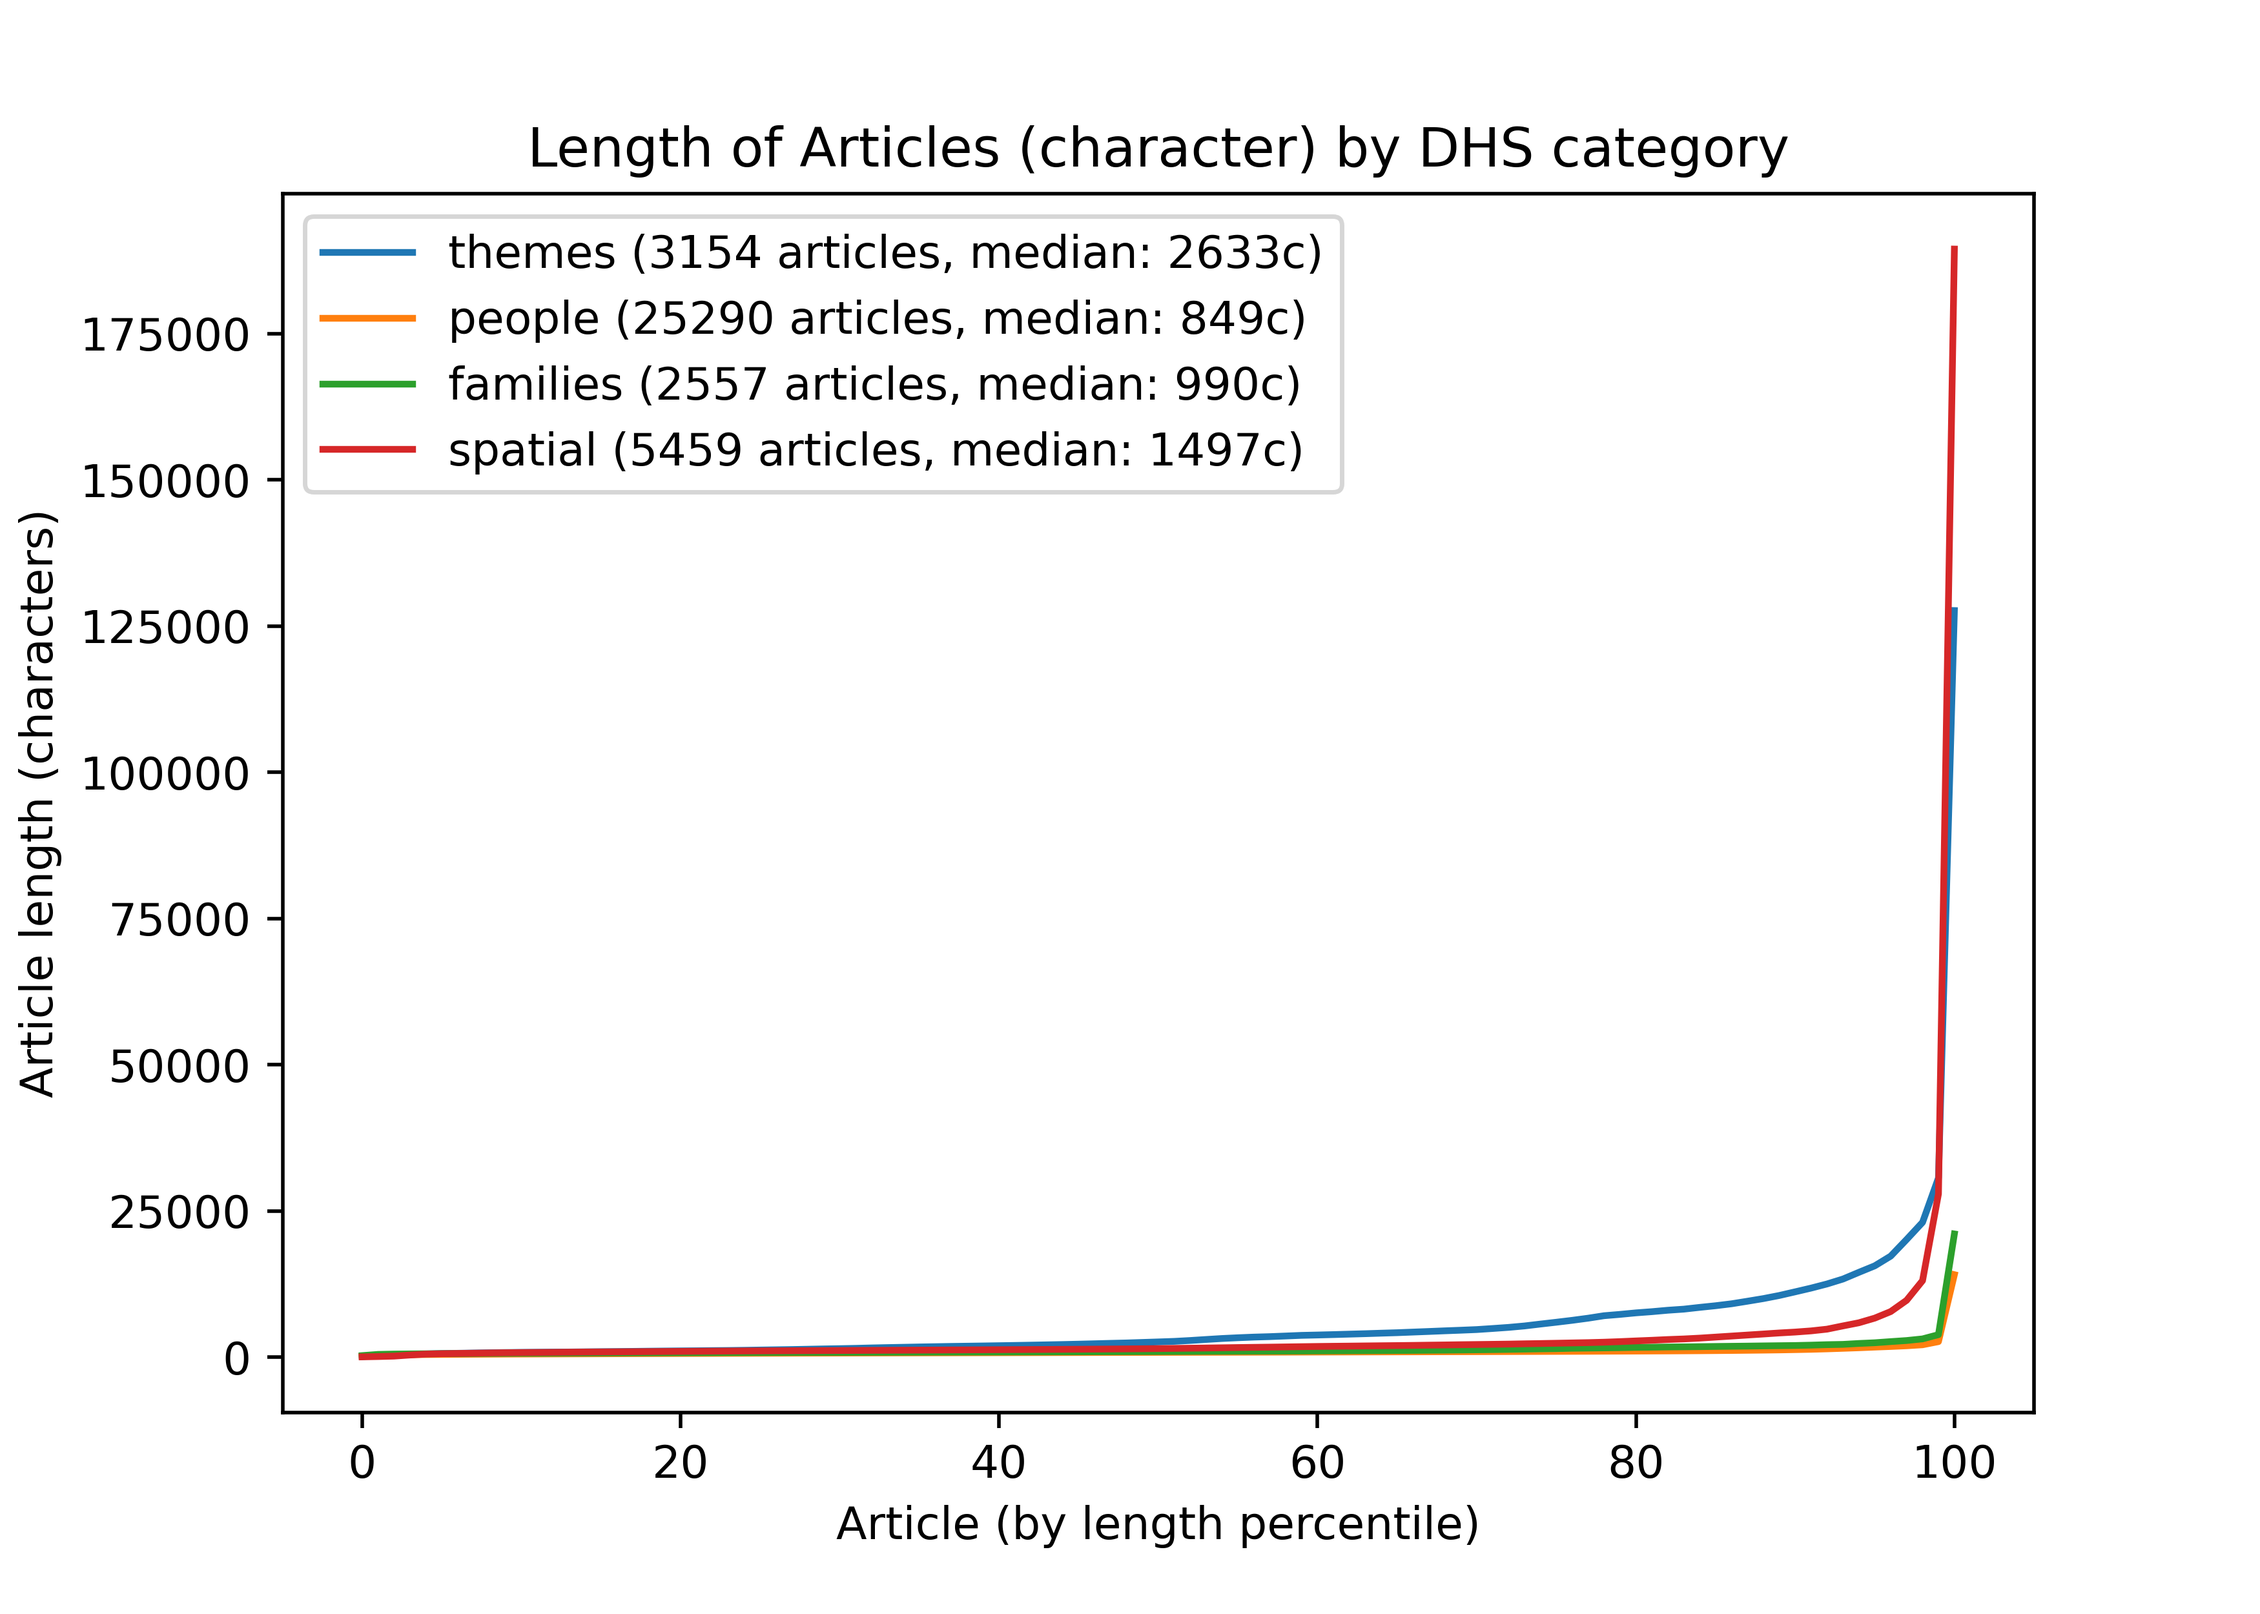
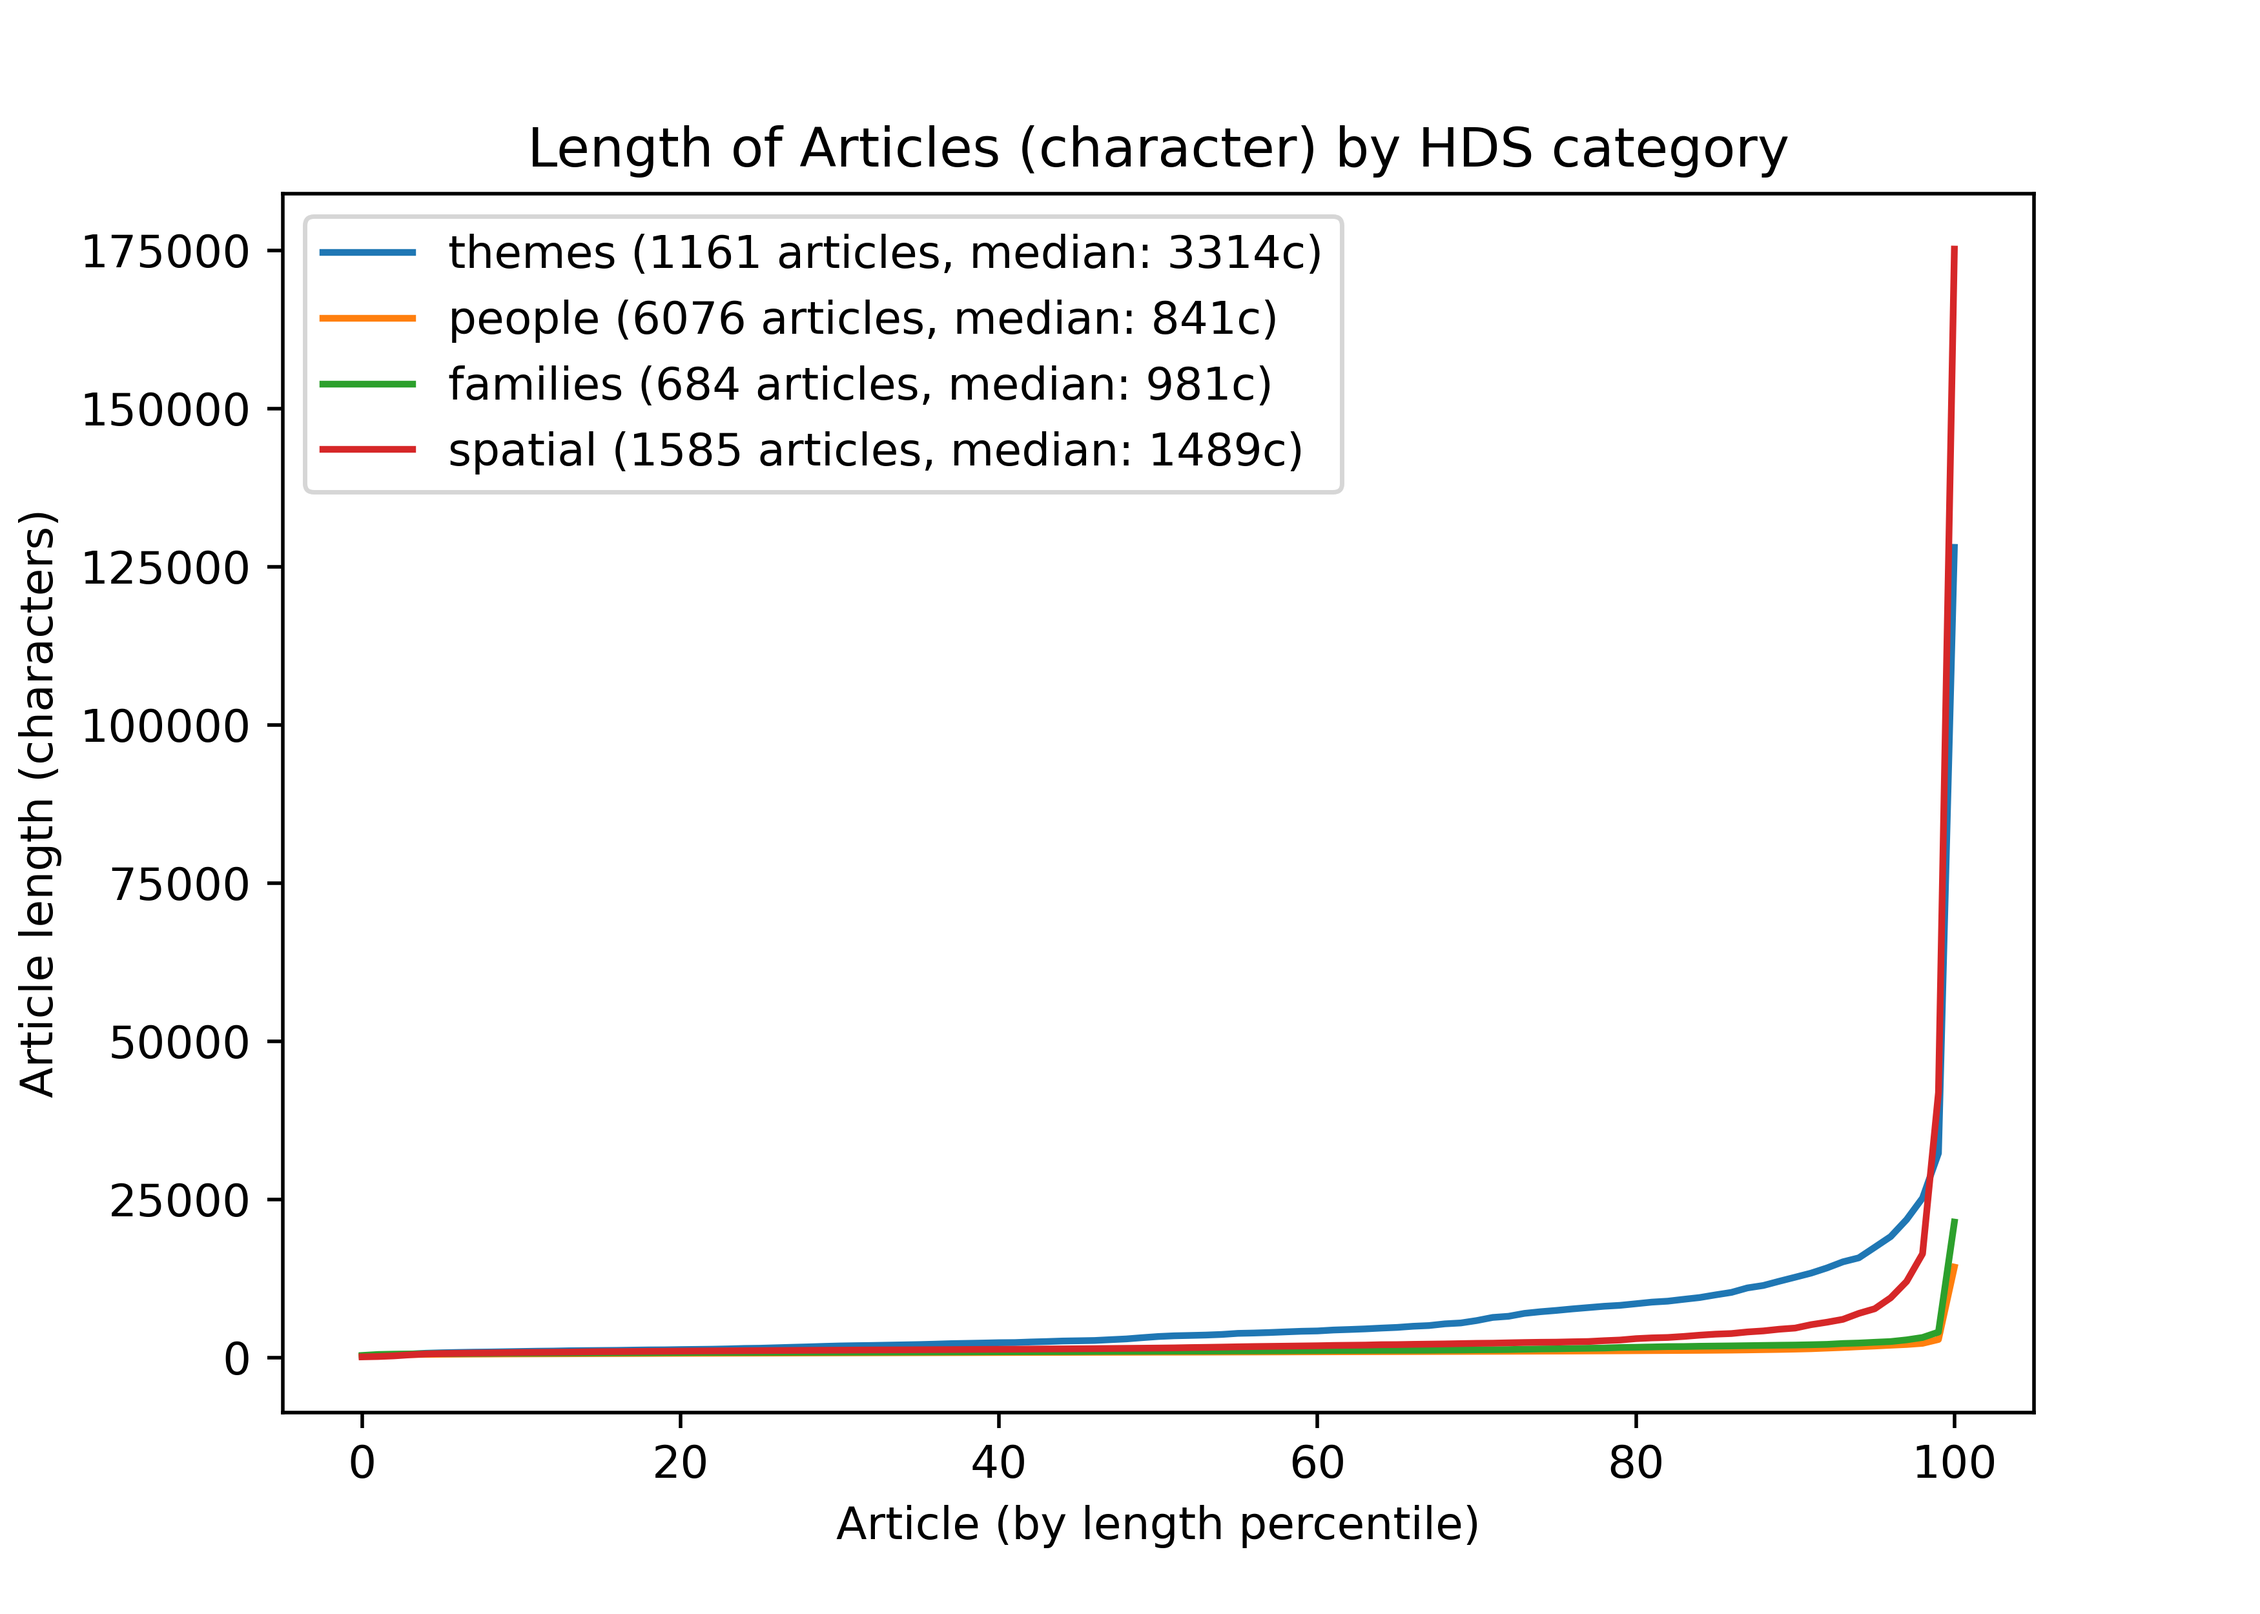
report+added pictures

diff --git a/reports/report.md b/reports/report.md
@@ -1,12 +1,13 @@
 
-
 # Linking the DHS
+
+
 
 ## 1) Introduction
 
 The Historical Dictionary of Switzerland (HDS) is a valuable source for historians and the general public on the History of Switzerland. It is the result of 30 years of dedicated work by historians with a vision for a detailed encyclopedia of Switzerland. Today it boasts a growing collection of 36'000 articles.
 
-It was also at the forefront of the use of digital technologies in History. It offered its first online portal in 2006. It is actively participating in the push for linked data as part of the metagrid.ch consortium. Today, most of its articles are linked to wikidata.
+It was also at the forefront of the transition to the digital medium with its first online version in 2006. It is actively participating in the push for linked data as part of the metagrid.ch consortium. Today, it serves as a reference for both Wikipedia and Wikidata, with Wikidata linking entities to most of its articles.
 
 The Dictionary was intended for publication as a paper encyclopedia. Its digital twin has been an evolution from this format. As a result, it still lacks some features that are hallmarks of born-digital encyclopedias.
 
@@ -14,15 +15,13 @@ Notably, cross-linking is a defining feature of Wikipedia. On a Wikipedia page, 
 
 Cross-linking of articles is currently in the process of being implemented in HDS articles. This project aims at making this process faster by automating using NLP techniques.
 
-In this project, we will perform automated named entity recognition and disambiguation on the whole HDS, use it to link the articles among themselves and provide a demonstration interface for a linked HDS.
+In this project, we will perform automated named entity recognition and disambiguation on the whole HDS, use it to link the articles among themselves as well as to Wikipedia and provide a demonstration interface for a linked HDS.
 
-The rest of this report is organized as follows: in section 2), the methodology and techologies used are presented; in section 3), the results, evaluation and statistics are presented; finally, section 4) concludes and proposes future avenues to continue this work.
+The rest of this report is organized as follows: in section 2) an overview of the HDS is given with summary statistics; in section 3) the methodology and techologies used are presented; in section 4), the results, evaluation and statistics are presented; finally, section 5) concludes and proposes future avenues to continue this work.
 
-## 1) The Historical Dictionary of Switzerland
+## 2) The Historical Dictionary of Switzerland
 
-HDS articles are classified in 4 main categories: people, families, spatial and themes.
-
-![articles lengths by category](./figures/articles_lengths_by_category.png "articles lengths by category")
+The HDS contains 36'000 articles classified in 4 main categories: people, families, spatial (municipalities, regions, etc.) and themes (communism, contemporary art, etc.). Most articles are about people (25'290 articles), then come spatial (5'459 articles), themes (3'154) and finally families (2'557).
 
 A HDS article has many components:
 1) article text
@@ -34,11 +33,20 @@ A HDS article has many components:
 
 Components "1) article text", "3) sources" and "6) thematic indexation" are present in all articles. Component "4) links to other linked databases" is present in most articles while presence of the components "2) media" and "5) structured data" vary a lot.
 
-Two examples of articles with most of the above components are the [city of Zurich](https://hls-dhs-dss.ch/articles/000171) and [Gustave Ador](https://hls-dhs-dss.ch/articles/003848/). [Schneckenbundgericht](https://hls-dhs-dss.ch/articles/029462/2016-11-23/) or [Schmerikon](https://hls-dhs-dss.ch/articles/001373/2011-08-10/)are typical sparse articles, without external links, media or structured data.
+Two examples of articles with most of the above components are the [city of Zurich](https://hls-dhs-dss.ch/articles/000171) and [Gustave Ador](https://hls-dhs-dss.ch/articles/003848/). [Schneckenbundgericht](https://hls-dhs-dss.ch/articles/029462/2016-11-23/) or [Schmerikon](https://hls-dhs-dss.ch/articles/001373/2011-08-10/) are typical sparse articles, without external links, media or structured data.
 
-All articles are versioned, for example Bioley-Orjulaz just got updated from an [older version](https://hls-dhs-dss.ch/articles/002356/2004-09-30/) to [a new one](https://hls-dhs-dss.ch/articles/002356/2021-11-08/). It clearly shows that the question of cross-linking is currently being adressed at the HDS, at the same time this project has been going.
+All articles are versioned, for example as of this report Bioley-Orjulaz just got updated from a [2004 version](https://hls-dhs-dss.ch/articles/002356/2004-09-30/) to [a new one](https://hls-dhs-dss.ch/articles/002356/2021-11-08/) with cross-linking. It clearly shows that the question of cross-linking is currently being adressed at the HDS, at the same time this project has been going.
 
-## 2) Methodology
+Most articles are quite short, consisting of a single paragraph, while a few articles are much longer. Articles about themes are longer on average. Spatial articles 
+
+![articles lengths by category](./figures/articles_lengths_by_category_save.png "articles lengths by category")
+
+
+![percentage of articles in Wikidata and Wikipedias](./figures/percent_articles_in_wd_by_category_save.png "percentage of articles in Wikidata and Wikipedias")
+*image_caption*
+
+
+## 3) Methodology
 
 The main steps of the projects are as follows:
 1) downloading the whole HDS;
@@ -46,7 +54,7 @@ The main steps of the projects are as follows:
 3) augmenting the HDS articles with the recognized entities; 
 4) creating a demonstration interface for a linked HDS.
 
-### 2.1) HDS articles extraction
+### 3.1) HDS articles extraction
 
 We created a python scraper to download and parse the whole HDS.
 
@@ -54,16 +62,16 @@ Of the 6 type of components mentionned in section 1), the scraper gathers all of
 
 
 
-### 2.2) Named Entity Recognition and Disambiguation with entity-fishing
+### 3.2) Named Entity Recognition and Disambiguation with entity-fishing
 
 The main task of this project is named entities recognition and disambiguation.
 
 Based on the result of the CLEF-HIPE 2020 challenge,
 
-### 2.3) Demonstration Interface for a linked HDS
+### 3.3) Demonstration Interface for a linked HDS
 
 For this work
 
-## 3) Results
+## 4) Results
 
-## 4) Conclusion and future works
+## 5) Conclusion and future works
